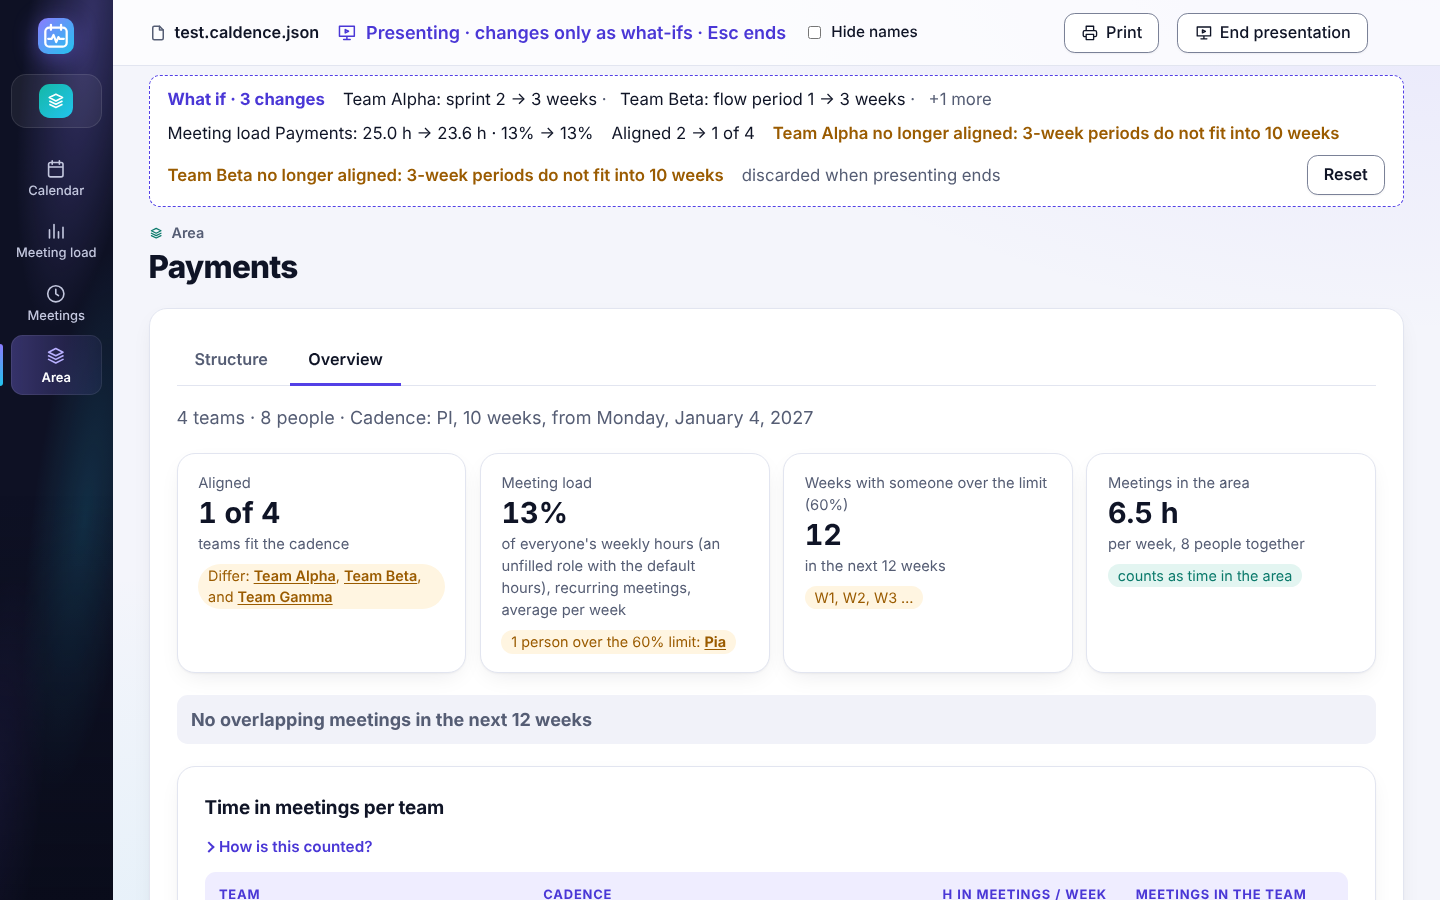
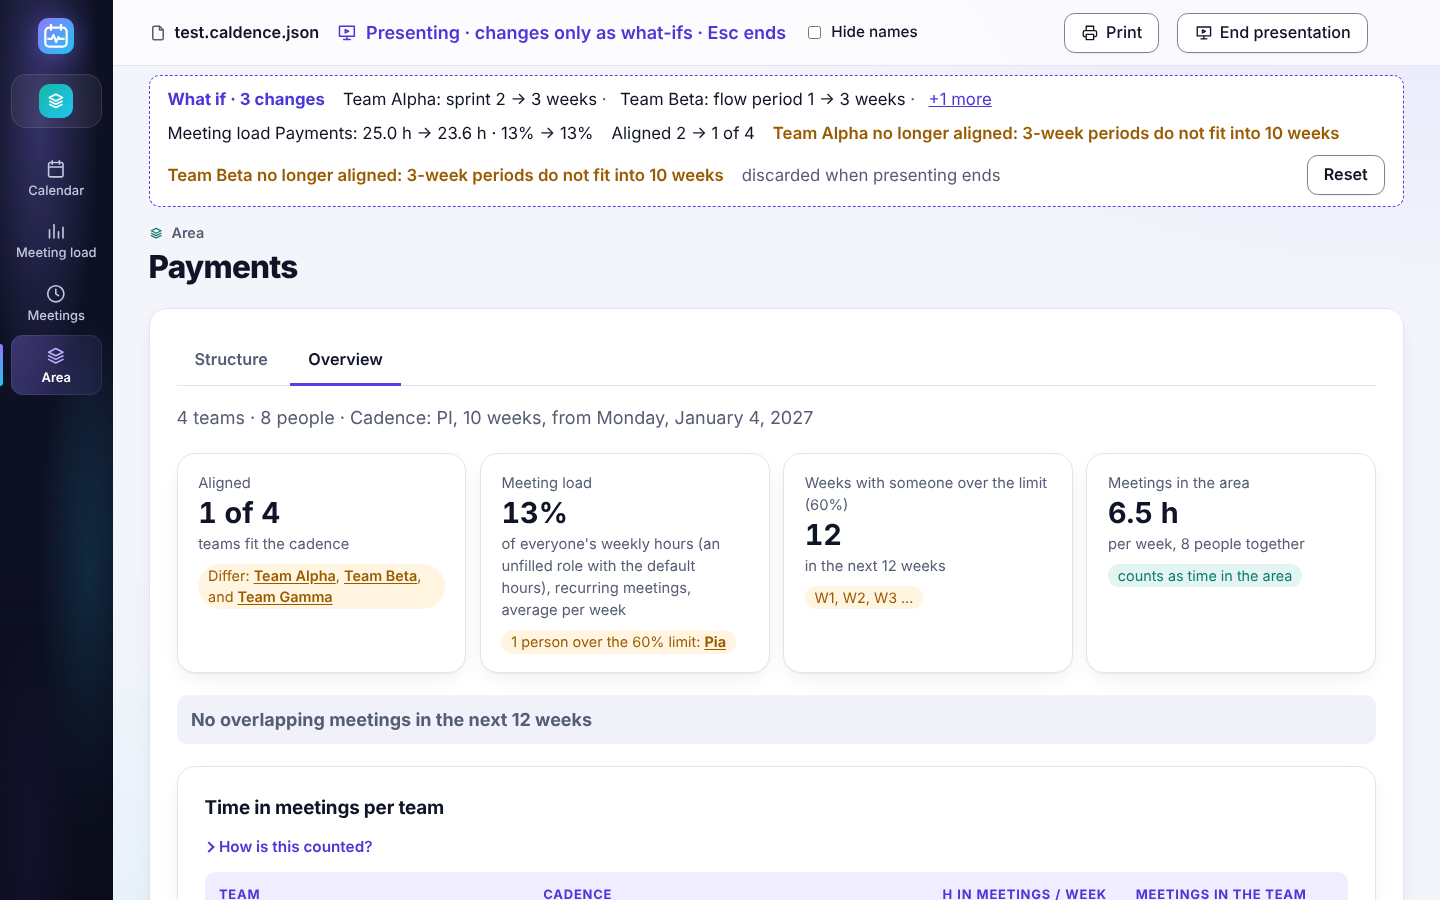
Style +N more as a link and re-shoot the what-if bar PNGs (#506)

Changed region(s): [[0.0, 0.0, 0.0938, 0.3111], [0.6562, 0.0933, 0.6875, 0.1244]]

diff --git a/src/ui/components/WhatIfBar.svelte b/src/ui/components/WhatIfBar.svelte
@@ -224,7 +224,7 @@
       display: inline;
     }
   }
-  .changes > button.more {
+  :global(#app) .changes > button.more {
     margin-left: 0;
     padding: 0;
     border: 0;
@@ -233,6 +233,10 @@
     text-decoration: underline;
     font: inherit;
     cursor: pointer;
+    box-shadow: none;
+  }
+  :global(#app) .changes > button.more:hover {
+    background: none;
   }
   .changes > span:not(:last-of-type)::after {
     content: ' ·';
